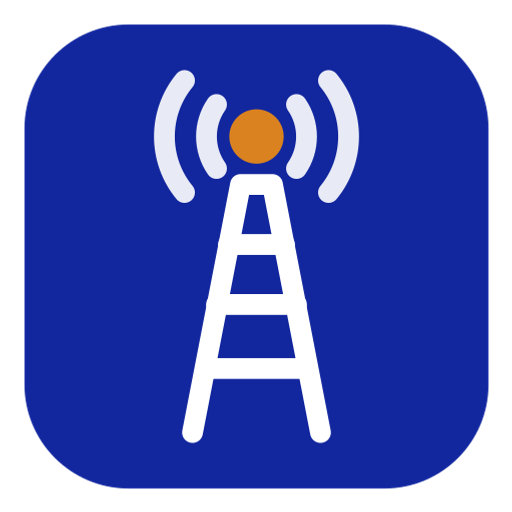
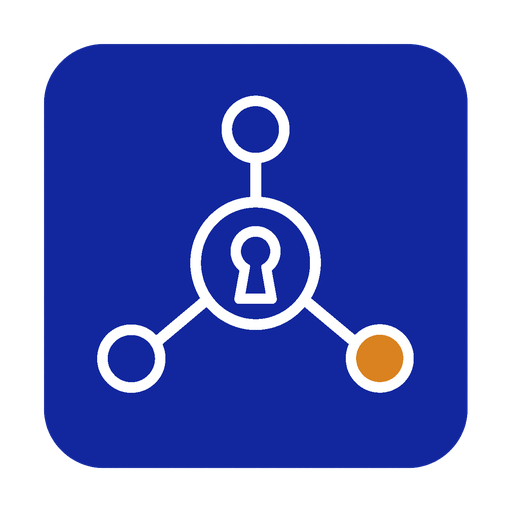
feat(ui): add NA-SSO brand assets

Changed region(s): [[0.1875, 0.125, 0.8125, 0.875], [0.0312, 0.0312, 0.9688, 0.9688]]

diff --git a/na_sso/main.py b/na_sso/main.py
@@ -112,7 +112,8 @@ async def api_http_error(request: Request, error: HTTPException):
 app.mount("/design", StaticFiles(directory=_PKG_DIR / "static" / "design"), name="design")
 
 for _icon in (
-    "favicon.svg", "favicon.ico", "apple-touch-icon.png", "site.webmanifest", "app.css"
+    "na-sso-logo.png", "favicon.svg", "favicon.ico", "apple-touch-icon.png",
+    "icon-192.png", "icon-512.png", "site.webmanifest", "app.css",
 ):
     app.add_api_route(
         f"/{_icon}",